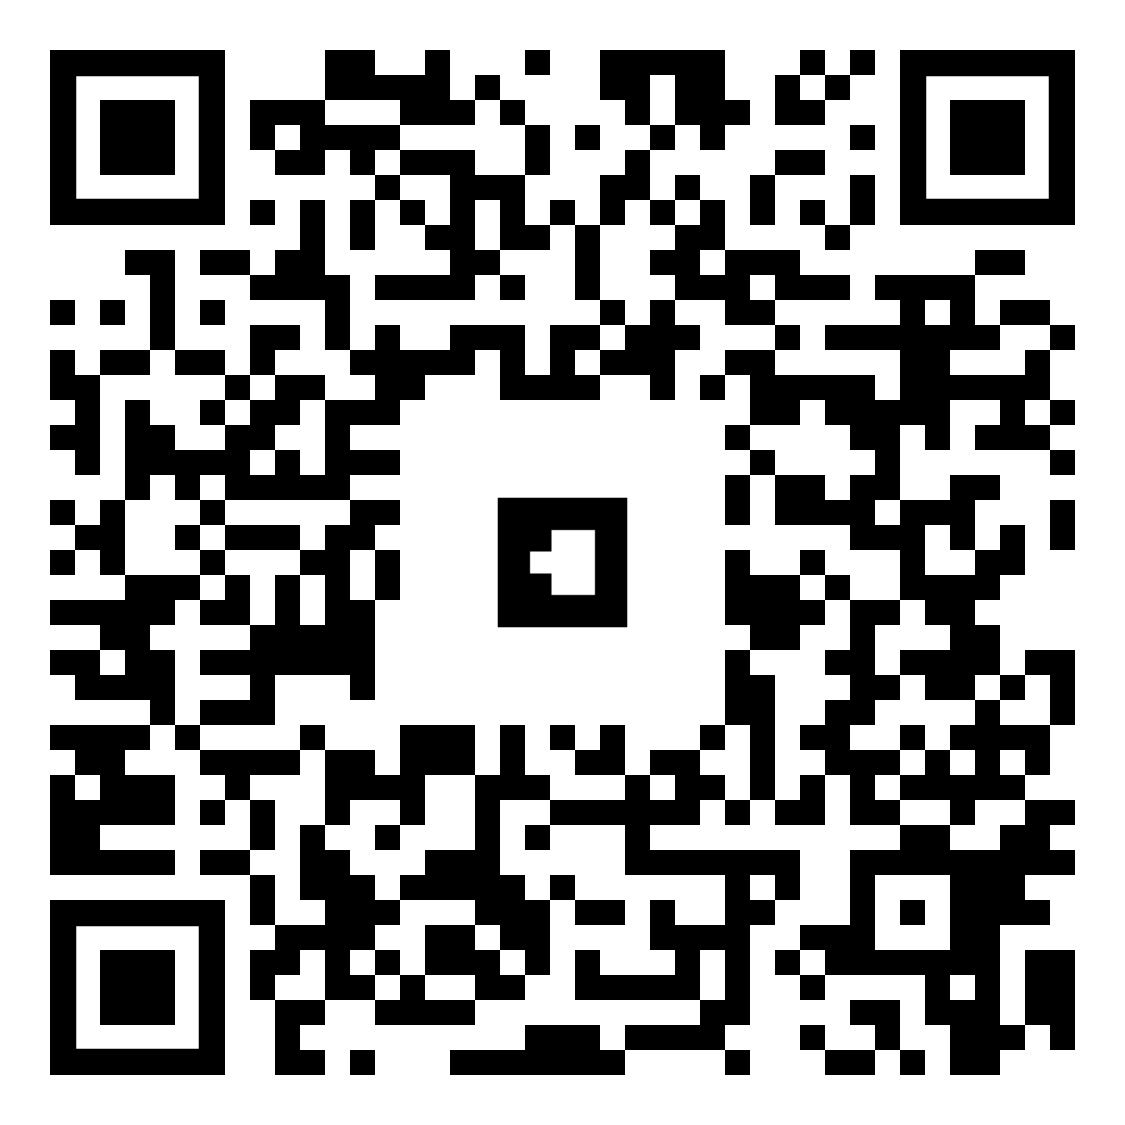
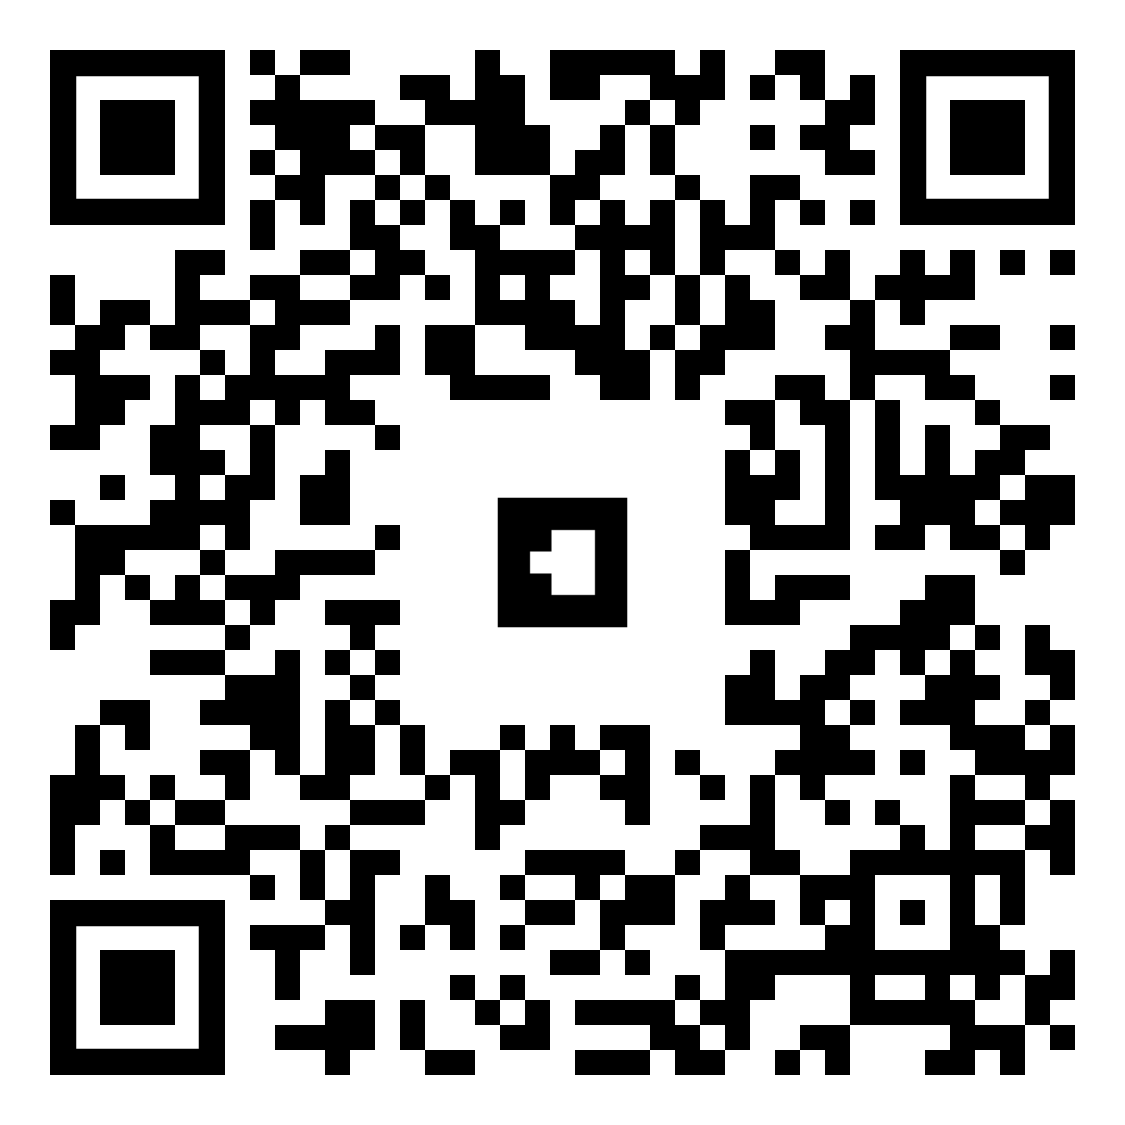
update

diff --git a/iwatch.html b/iwatch.html
@@ -9,31 +9,16 @@
   </head>
   <body style="margin : 0px; overflow: hidden;">
     <!--<a-scene embedded arjs='sourceType: webcam; debugUIEnabled: false;'>-->
-    <a-scene embedded arjs='sourceType: webcam; debugUIEnabled: false; detectionMode: mono_and_matrix; matrixCodeType: 3x3;'>
+    <a-scene embedded arjs='sourceType: webcam; debugUIEnabled: false; detectionMode: mono_and_matrix; matrixCodeType: 3x3_parity_6_5;'>
 
-      <a-assets>
-        <a-asset-item response-type="arraybuffer" id="iwatch" src="https://arjs-cors-proxy.herokuapp.com/https://raw.githack.com/gOdmOde101/WebAR_JS/master/asset/JW_iwatch/scene.gltf"></a-asset-item>
-      </a-assets>
-
-      <!--<a-plane position="0 0 0" rotation="0 0 0" width="4" height="4" color="yellow"></a-plane>
-      <a-plane position="0 -2 2" rotation="-90 0 0" width="4" height="4" color="blue"></a-plane>
-      <a-marker preset="custom" type="pattern" url="./link/VBig.patt">-->
-
-      <a-marker preset="custom" type="barcode" value="7">
-
-        <!--<a-box position="0 0 0" rotation="0 45 0" color="green" animation="property: rotation; to: 0 360 0; loop: true; dur: 10000; easing: linear;"></a-box>
-
-
-        <a-plane position="0 0 0" rotation="-90 0 0" width="7" height="7" color="#f8f8ff"></a-plane>-->
-
+      <a-marker preset="custom" type='barcode' value='0'>
         <a-entity
-          position="0 0 0"
-          scale="2 2 2"
-          gltf-model="#iwatch">
+          position="0 0 3"
+          scale="0.1 0.1 0.1"
+          gltf-model="https://arjs-cors-proxy.herokuapp.com/https://raw.githack.com/gOdmOde101/WebAR_JS/master/asset/JW_iwatch/scene.gltf"
+          animation="property: rotation; to: 360 0 360; easing: linear; loop: true; dur: 20000">
         </a-entity>
-
       </a-marker>
-
       <a-entity camera></a-entity>
 
     </a-scene>
